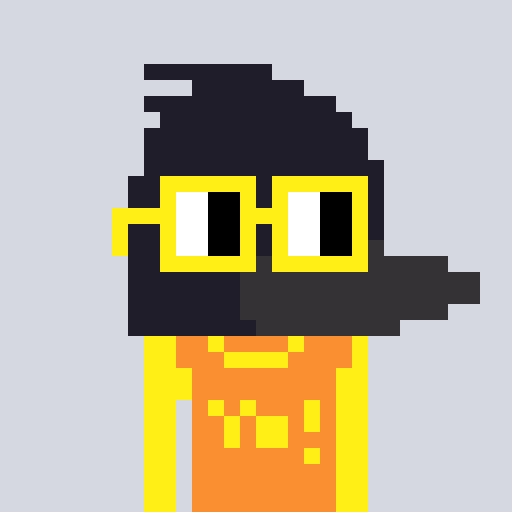
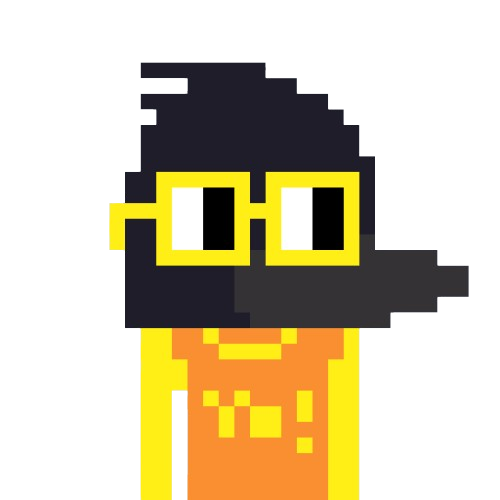
add akve and change noun images

diff --git a/frontend/lib/akave.ts b/frontend/lib/akave.ts
@@ -1,0 +1,58 @@
+import fs from 'fs'
+import FormData from 'form-data'
+
+const API_BASE_URL = 'http://localhost:8000'
+
+async function apiRequest(method: any, endpoint: any, data = null) {
+    try {
+        const response = await fetch(`${API_BASE_URL}${endpoint}`, {
+            method,
+            headers: {
+                'Content-Type': 'application/json',
+            },
+            body: data ? JSON.stringify(data) : null,
+        })
+
+        if (!response.ok) {
+            throw new Error(`HTTP error! status: ${response.status}`)
+        }
+
+        const responseData = await response.json()
+        console.log(responseData)
+    } catch (error: unknown) {
+        if (error instanceof Error) {
+            console.error(error.message)
+        } else {
+            console.error('An unknown error occurred')
+        }
+    }
+}
+
+export async function uploadFile(bucketName: string, filePath: string) {
+    const form = new FormData()
+    form.append('file', fs.createReadStream(filePath))
+
+    try {
+        const response = await fetch(
+            `${API_BASE_URL}/buckets/${bucketName}/files`,
+            {
+                method: 'POST',
+                headers: form.getHeaders(),
+                body: form as unknown as string,
+            }
+        )
+
+        if (!response.ok) {
+            throw new Error(`HTTP error! status: ${response.status}`)
+        }
+
+        const responseData = await response.json()
+        console.log(responseData)
+    } catch (error) {
+        console.error(
+            error instanceof Error ? error.message : 'An unknown error occurred'
+        )
+    }
+}
+
+// uploadFile('myBucket', './path/to/file.txt')

diff --git a/frontend/components/onboarding/unique/CharitySocialInfo.tsx b/frontend/components/onboarding/unique/CharitySocialInfo.tsx
@@ -107,7 +107,7 @@ export default function CharitySocialInfo() {
                 animate={{ x: 0 }}
                 exit={{ x: '-50%' }}
                 transition={{ duration: 0.5, ease: 'linear' }}
-                className="z-50 absolute left-1/2 w-1/2 min-h-[calc(100vh-4rem)] flex flex-col items-center justify-center p-10 bg-[#D4D7E1] rounded-xl"
+                className="z-50 absolute left-1/2 w-1/2 min-h-[calc(100vh-4rem)] flex flex-col items-center justify-center p-10 rounded-xl"
             >
                 <p className="text-2xl">
                     Tell us a bit about your charity so we can get you set up!

diff --git a/frontend/components/onboarding/unique/BasicCharityInfo.tsx b/frontend/components/onboarding/unique/BasicCharityInfo.tsx
@@ -71,7 +71,7 @@ export default function BasicCharityInfo() {
                 animate={{ x: 0 }}
                 exit={{ x: '50%' }}
                 transition={{ duration: 0.5, ease: 'linear' }}
-                className="z-50 w-1/2  absolute mx-auto min-h-[calc(100vh-4rem)] flex flex-col items-center justify-center p-10 bg-[#D4D7E1] rounded-xl"
+                className="z-50 w-1/2  absolute mx-auto min-h-[calc(100vh-4rem)] flex flex-col items-center justify-center p-10  rounded-xl"
             >
                 <p className="text-2xl">
                     Tell us a bit about your charity so we can get you set up!

diff --git a/frontend/components/onboarding/unique/CharitySignup.tsx b/frontend/components/onboarding/unique/CharitySignup.tsx
@@ -31,7 +31,7 @@ export default function CharitySignup() {
                 animate={{ x: 0 }}
                 exit={{ x: '50%' }}
                 transition={{ duration: 0.5, ease: 'linear' }}
-                className="z-50 w-1/2  absolute mx-auto min-h-[calc(100vh-4rem)] flex flex-col items-center justify-center p-10 bg-[#D4D7E1] rounded-xl"
+                className="z-50 w-1/2  absolute mx-auto min-h-[calc(100vh-4rem)] flex flex-col items-center justify-center p-10 rounded-xl"
             >
                 <p className="text-2xl">
                     Tell us a bit about your charity so we can get you set up!

diff --git a/frontend/components/ListEvents.tsx b/frontend/components/ListEvents.tsx
@@ -33,7 +33,6 @@ export default function ListEvents({ initialData }: { initialData: any[] }) {
     const [debouncedCharity] = useDebounce(charity, 500);
     const [debouncedDate] = useDebounce(date, 500);
 
-
     const mockEvents = [{
         chainId: 88882,
[1 lines of base64/hex data omitted]
